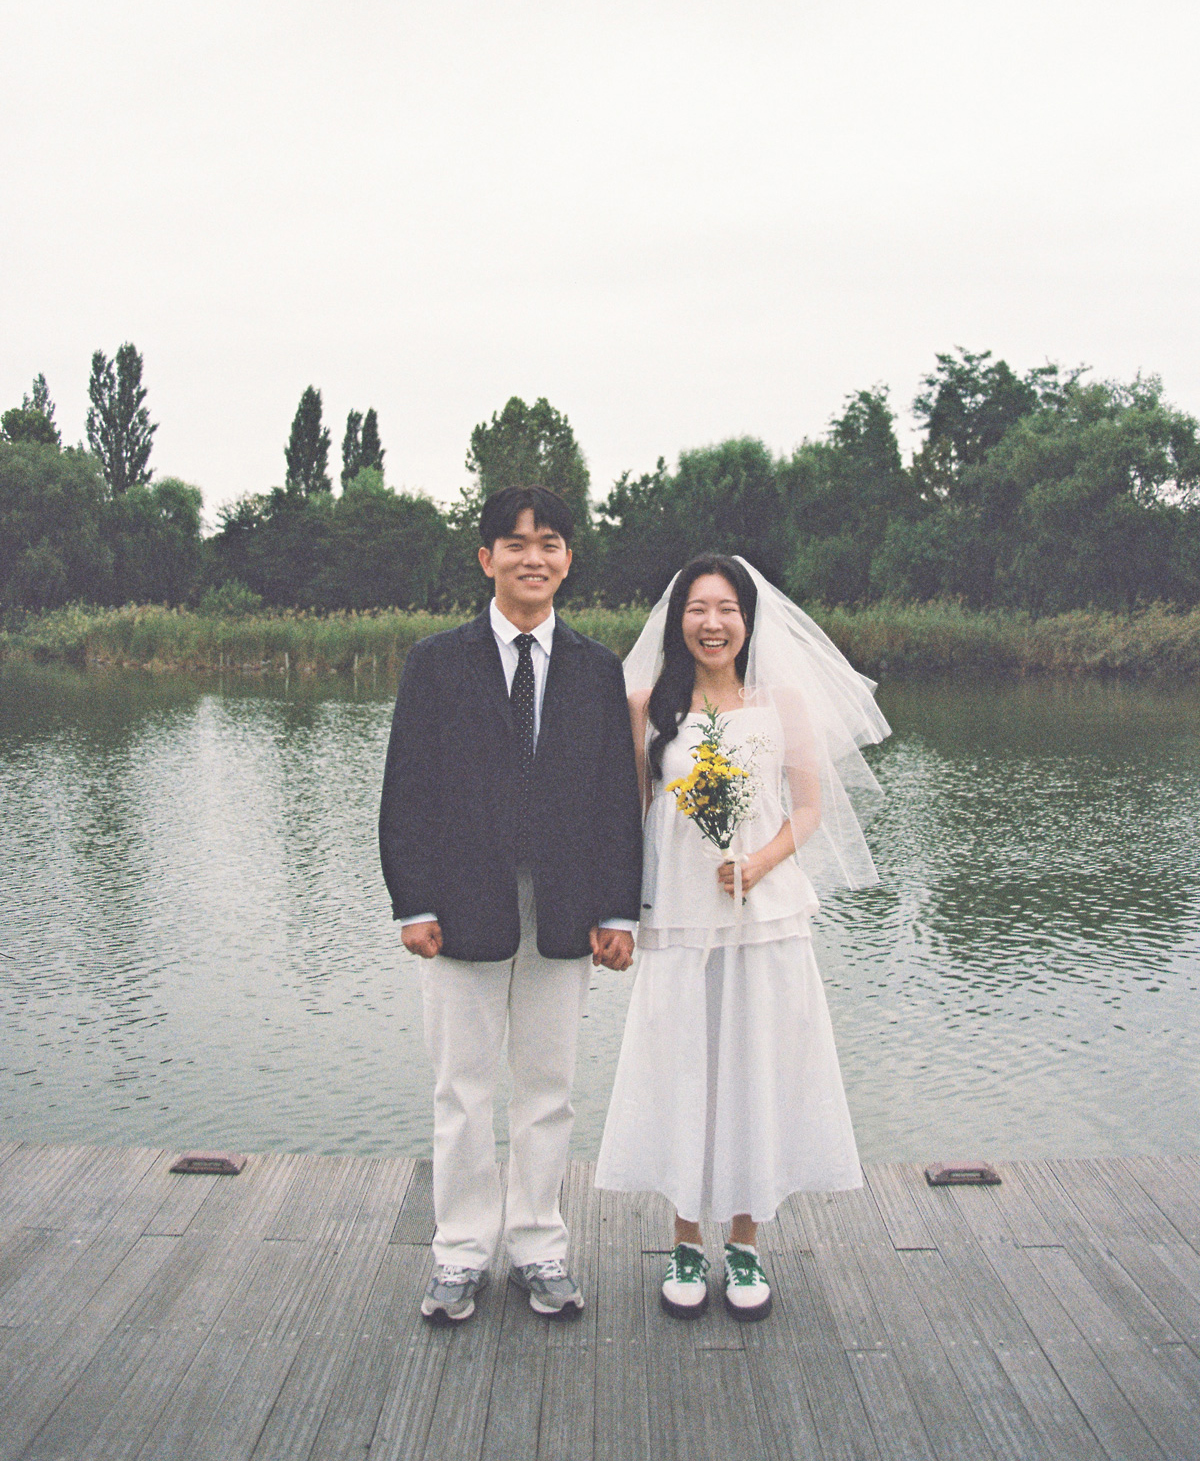
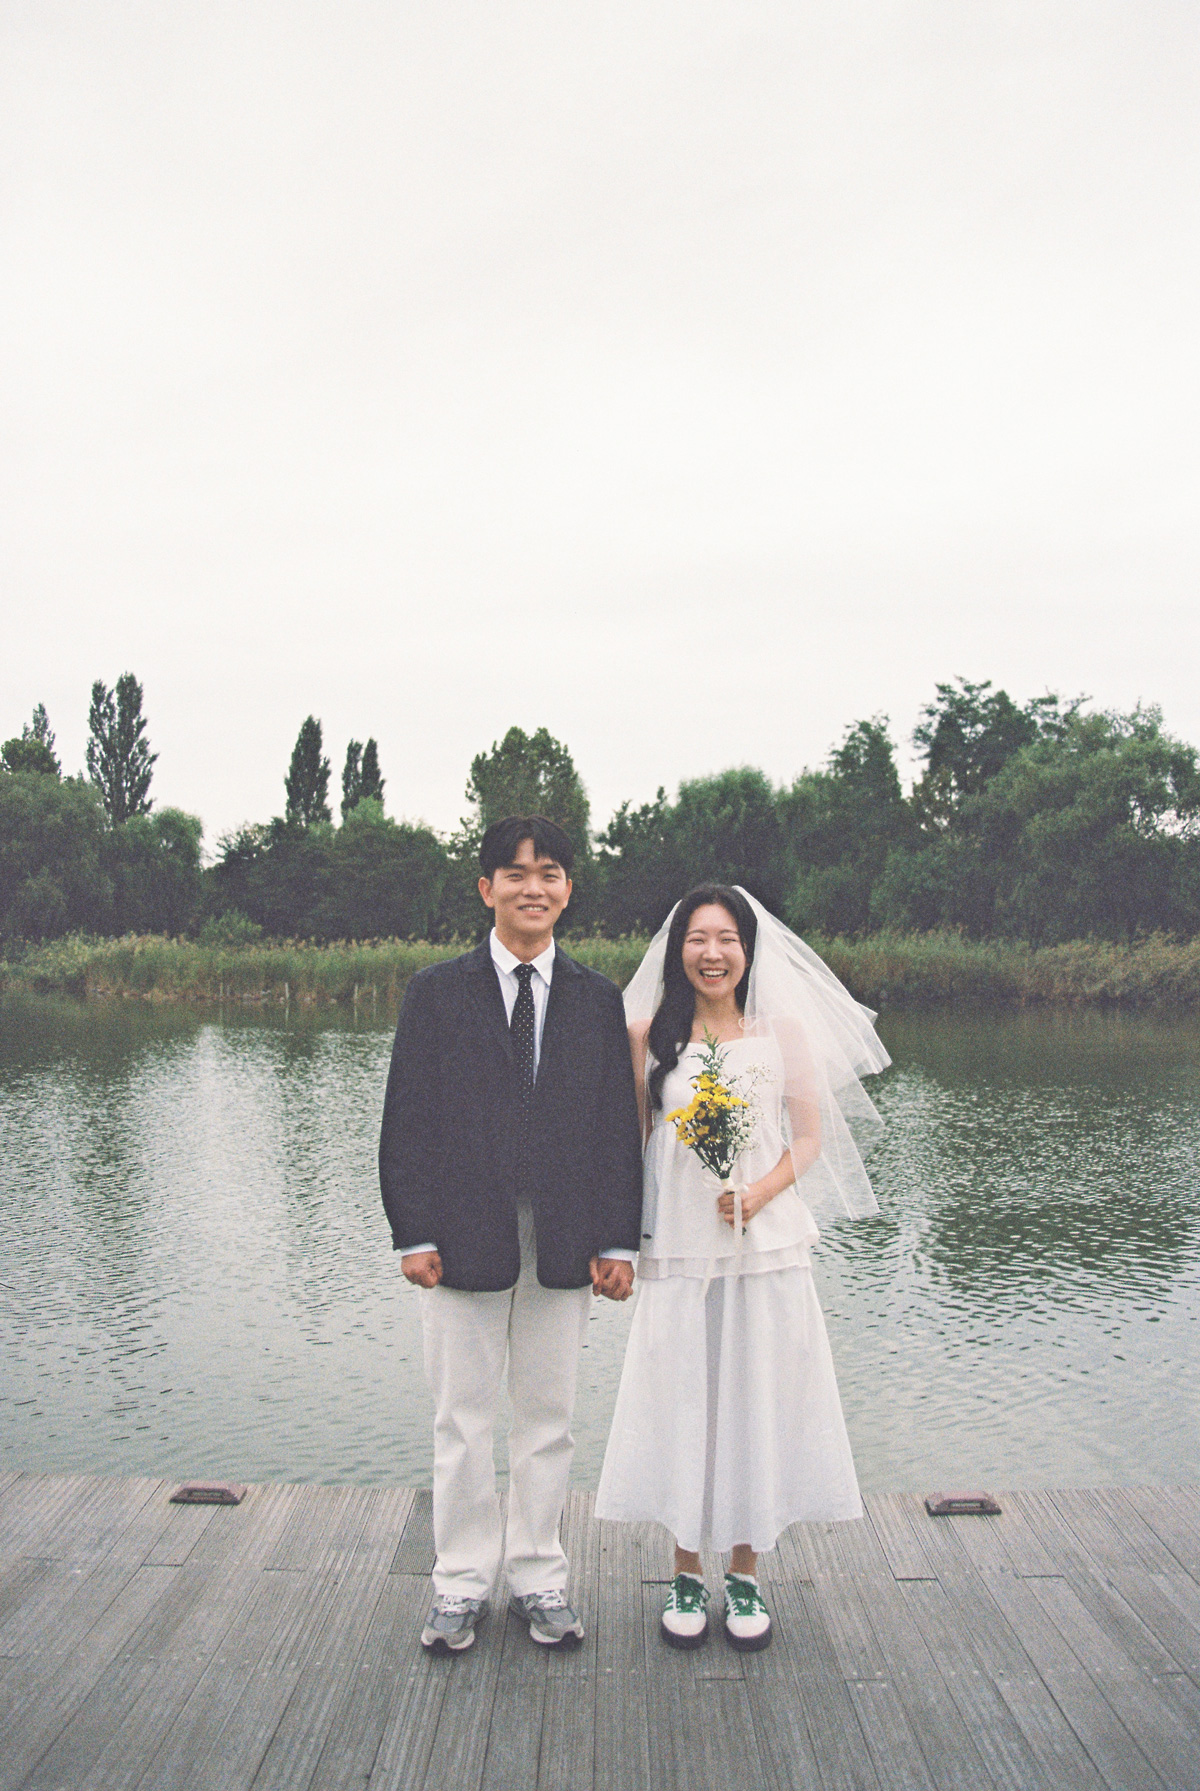
photo size

diff --git a/index.html b/index.html
@@ -124,8 +124,8 @@
       aspect-ratio: 4 / 5.05;
       border-radius: 48% 48% 8px 8px;
       background-image: var(--cover-image);
-      background-size: 120%;
-      background-position: center 47%;
+      background-size: 140%;
+      background-position: center 40%;
       background-repeat: no-repeat;
       box-shadow: var(--shadow);
       position: relative;
